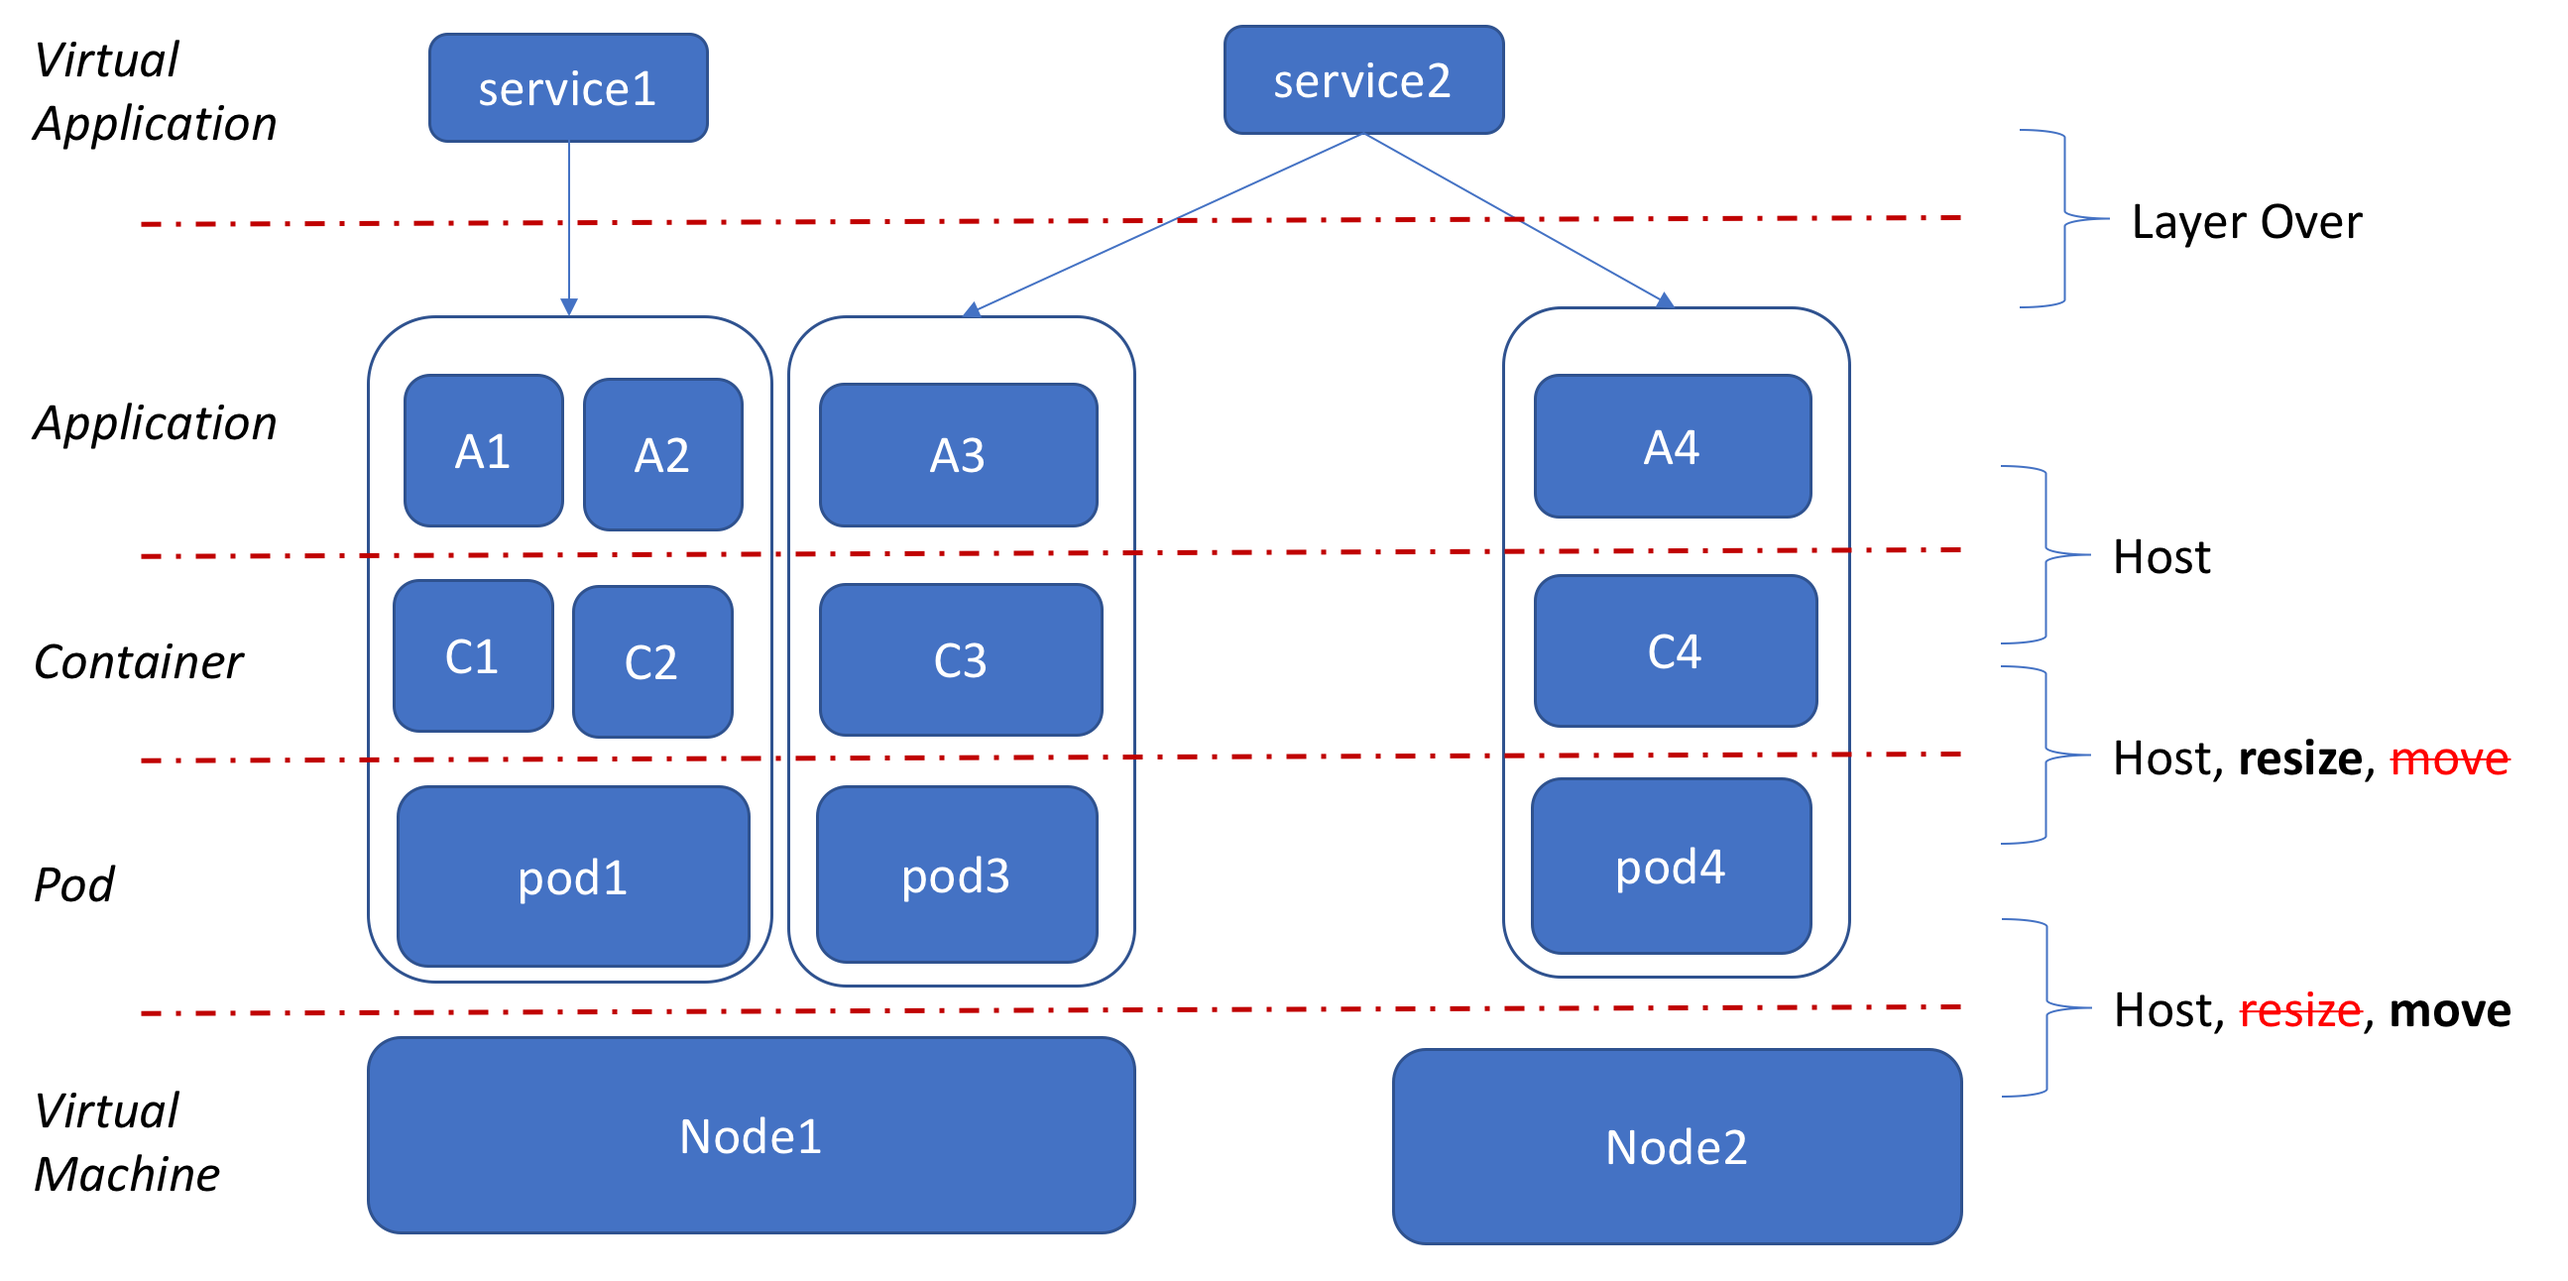
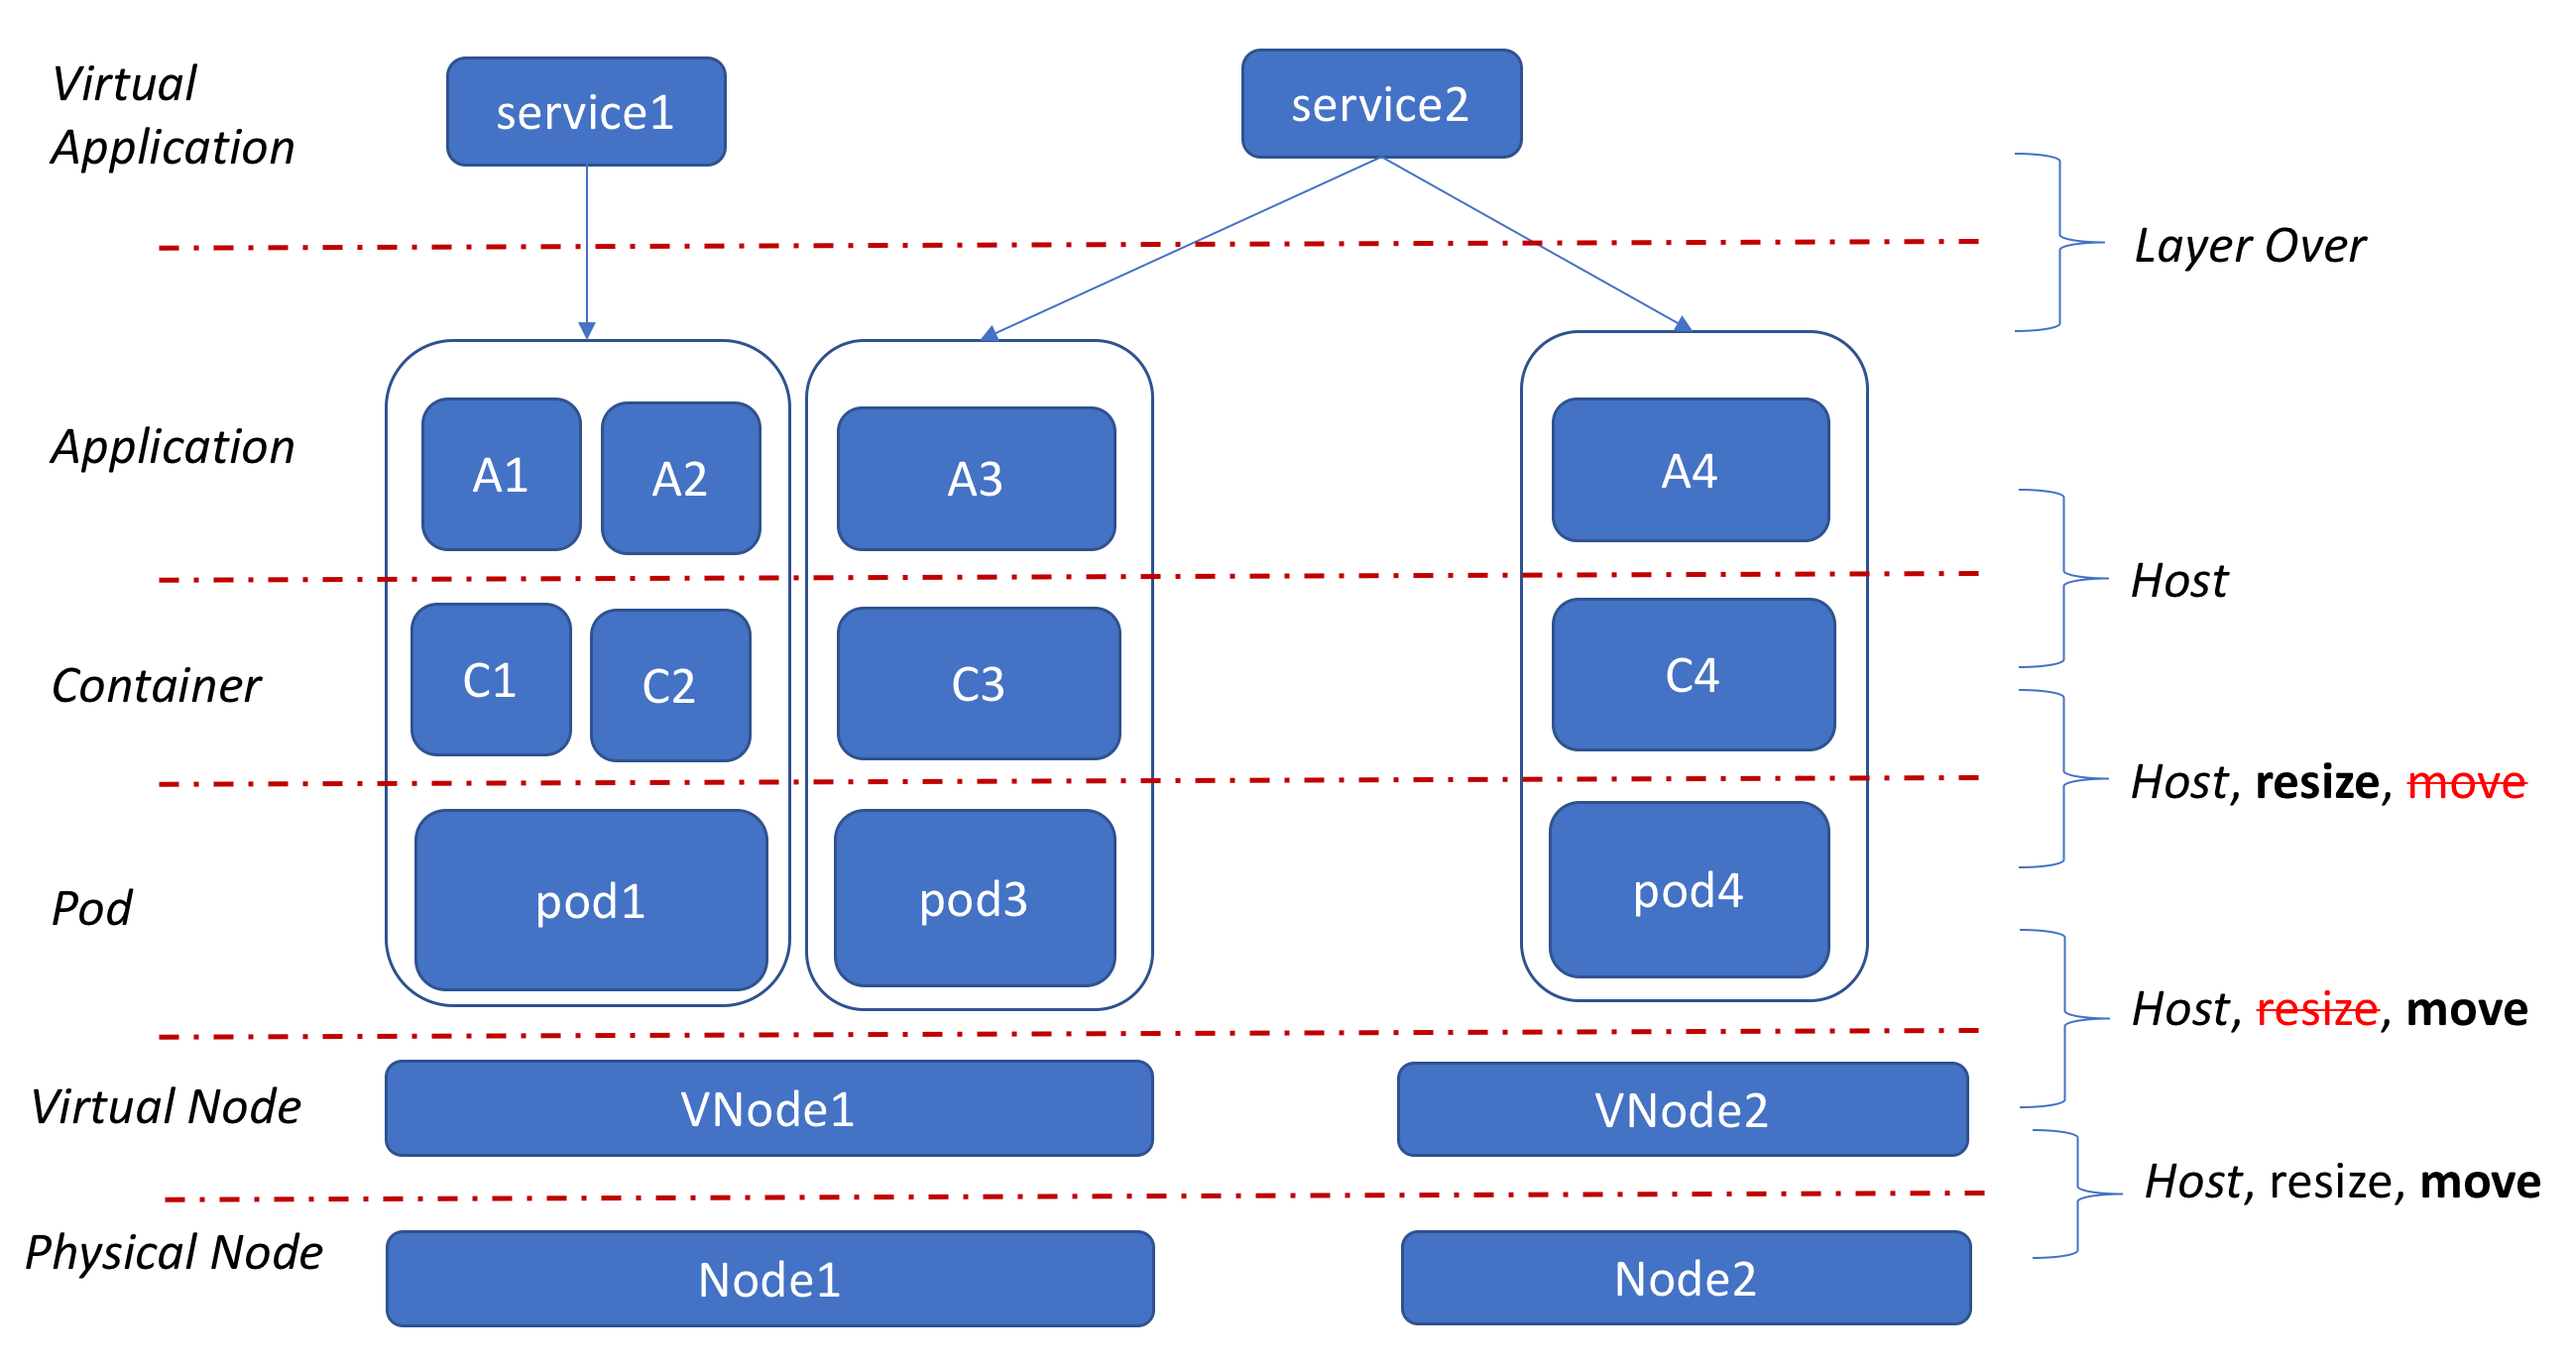
new img

diff --git a/README.md b/README.md
@@ -6,3 +6,8 @@ build a supply chain of *node --> pod --> container --> application --> virtualA
 <img width="700" src="https://github.com/songbinliu/containerChain/blob/master/conf/supplyChain.png">
 </div>
 
+# Commodities between layers
+<div>
+<img width="500" src="https://github.com/songbinliu/containerChain/blob/master/conf/commodity.png">
+</div>
+
